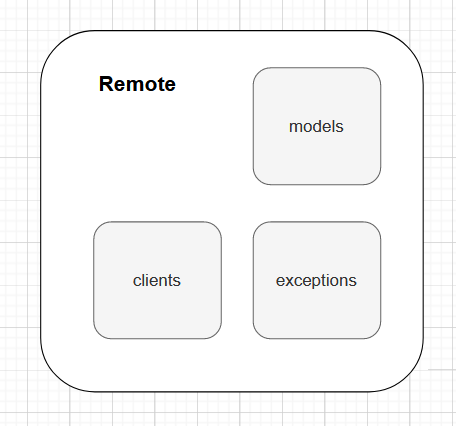
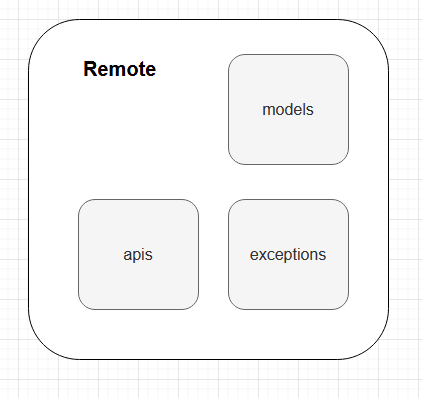
impl cache data source

diff --git a/lib/data/repositories/sample_repository.dart b/lib/data/repositories/sample_repository.dart
@@ -1,4 +1,6 @@
-import 'package:base_flutter/data/dataproviders/network/clients/sample_api_client.dart';
+import 'package:base_flutter/data/dataproviders/cache/models/sample_entity.dart';
+import 'package:base_flutter/data/dataproviders/cache/storage/sample_cache.dart';
+import 'package:base_flutter/data/dataproviders/network/apis/sample_api_client.dart';
 import 'package:base_flutter/data/dataproviders/network/exceptions/default_exception_handler.dart';
 import 'package:base_flutter/data/dataproviders/network/exceptions/exception_handler.dart';
 import 'package:base_flutter/data/dataproviders/network/models/sample_dto.dart';
@@ -8,11 +10,14 @@ import 'package:base_flutter/utils/result.dart';
 class SampleRepository {
   SampleRepository({
     SampleApiClient? sampleApiClient,
+    SampleCache? sampleCache,
     ExceptionHandler? exceptionHandler,
   })  : _sampleApiClient = sampleApiClient ?? SampleApiClient(),
+        _sampleCache = sampleCache ?? SampleCache(),
         _exceptionHandler = exceptionHandler ?? DefaultExceptionHandler();
 
   final SampleApiClient _sampleApiClient;
+  final SampleCache _sampleCache;
   final ExceptionHandler _exceptionHandler;
 
   Future<Result<List<SampleModel>>> fetch() async {
@@ -21,4 +26,25 @@ class SampleRepository {
       _exceptionHandler,
     );
   }
+
+  Future<Result<List<SampleModel>>> fetchWithCache() async {
+    return Result.guardFuture(
+          () async {
+            var cached = await _sampleCache.getSamples();
+            // return cached
+            if (cached.isNotEmpty) {
+              return cached.mapToModel();
+            }
+            // if not cached yet, fetch new data
+            var response = await _sampleApiClient.fetchCompute();
+            var models = response.mapToModel();
+            // save cache
+            await _sampleCache.saveSamples(models.mapToEntity());
+            // return result
+            return models;
+          },
+      _exceptionHandler,
+    );
+  }
+
 }

diff --git a/lib/utils/json_ext.dart b/lib/utils/json_ext.dart
@@ -1,34 +1,47 @@
 import 'dart:convert';
+import 'dart:developer';
 
 import 'package:flutter/foundation.dart';
 
 class JsonExtensions {
+  JsonExtensions._();
+
   /// parse json object
   /// not tested yet.
-  static T parseObject<T>(JsonParser parser) {
-    final parsed = jsonDecode(parser.responseBody);
-    return parser.fromJson(parsed);
+  static T? toObject<T>(JsonParser parser) {
+    try {
+      final parsed = jsonDecode(parser.raw);
+      return parser.fromJson(parsed);
+    } on Exception catch (e) {
+      log(e.toString());
+      return null;
+    }
   }
 
   /// parse json array
-  static List<T> parseObjects<T>(JsonParser<T> parser) {
-    final parsed = jsonDecode(parser.responseBody).cast<Map<String, dynamic>>();
-    return parsed.map<T>((json) => parser.fromJson(json)).toList();
+  static List<T> toObjects<T>(JsonParser<T> parser) {
+    try {
+      final parsed = jsonDecode(parser.raw).cast<Map<String, dynamic>>();
+      return parsed.map<T>((json) => parser.fromJson(json)).toList();
+    } on Exception catch (e) {
+      log(e.toString());
+      return List.empty();
+    }
   }
 
   /// parse json array in background
   /// https://docs.flutter.dev/cookbook/networking/background-parsing
-  static Future<List<T>> parseObjectsCompute<T>(JsonParser<T> parser) {
-    return compute(JsonExtensions.parseObjects<T>, parser);
+  static Future<List<T>> toObjectsCompute<T>(JsonParser<T> parser) {
+    return compute(JsonExtensions.toObjects<T>, parser);
   }
 }
 
 class JsonParser<T> {
   /// raw json
-  String responseBody;
+  String raw;
 
   /// function convert json -> T
   T Function(Map<String, dynamic> json) fromJson;
 
-  JsonParser({required this.responseBody, required this.fromJson});
+  JsonParser({required this.raw, required this.fromJson});
 }

diff --git a/lib/data/dataproviders/cache/models/sample_entity.dart b/lib/data/dataproviders/cache/models/sample_entity.dart
@@ -1,0 +1,50 @@
+import 'package:base_flutter/data/models/sample_model.dart';
+import 'package:base_flutter/utils/string_ext.dart';
+import 'package:equatable/equatable.dart';
+import 'package:json_annotation/json_annotation.dart';
+
+part 'sample_entity.g.dart';
+
+@JsonSerializable()
+class SampleEntity extends Equatable {
+  @JsonKey(name: 'id')
+  final int? id;
+  @JsonKey(name: 'albumId')
+  final int? albumId;
+  @JsonKey(name: 'title')
+  final String? title;
+  @JsonKey(name: 'url')
+  final String? url;
+  @JsonKey(name: 'thumbnailUrl')
+  final String? thumbnailUrl;
+
+  const SampleEntity(
+      {this.id, this.albumId, this.title, this.url, this.thumbnailUrl});
+
+  factory SampleEntity.fromJson(Map<String, dynamic> json) =>
+      _$SampleEntityFromJson(json);
+
+  Map<String, dynamic> toJson() => _$SampleEntityToJson(this);
+
+  @override
+  List<Object?> get props => [id, albumId, title, url, thumbnailUrl];
+}
+
+extension _Mapper on SampleEntity {
+  SampleModel? mapToModel() {
+    if (id == null || albumId == null) return null;
+    return SampleModel(
+      id: id!,
+      albumId: albumId!,
+      title: title.orEmpty(),
+      url: url.orEmpty(),
+      thumbnailUrl: thumbnailUrl.orEmpty(),
+    );
+  }
+}
+
+extension ListMapper on List<SampleEntity> {
+  List<SampleModel> mapToModel() {
+    return map((e) => e.mapToModel()).whereType<SampleModel>().toList();
+  }
+}

diff --git a/lib/data/dataproviders/network/apis/sample_api_client.dart b/lib/data/dataproviders/network/apis/sample_api_client.dart
@@ -12,9 +12,9 @@ class SampleApiClient {
   /// should use only if large json, because compute() cost too
   Future<List<SampleDto>> fetchCompute() async {
     final Response<String> response = await _dio.request("/photos");
-    return JsonExtensions.parseObjectsCompute<SampleDto>(
+    return JsonExtensions.toObjectsCompute<SampleDto>(
       JsonParser(
-        responseBody: response.data.toString(),
+        raw: response.data.toString(),
         fromJson: (json) => SampleDto.fromJson(json),
       ),
     );
@@ -22,9 +22,9 @@ class SampleApiClient {
 
   Future<List<SampleDto>> fetch() async {
     final Response<String> response = await _dio.request("/photos");
-    return JsonExtensions.parseObjects<SampleDto>(
+    return JsonExtensions.toObjects<SampleDto>(
       JsonParser(
-        responseBody: response.data.toString(),
+        raw: response.data.toString(),
         fromJson: (json) => SampleDto.fromJson(json),
       ),
     );

diff --git a/lib/data/dataproviders/cache/storage/sample_cache.dart b/lib/data/dataproviders/cache/storage/sample_cache.dart
@@ -1,0 +1,25 @@
+import 'dart:convert';
+
+import 'package:base_flutter/data/dataproviders/cache/models/sample_entity.dart';
+import 'package:base_flutter/utils/json_ext.dart';
+import 'package:base_flutter/utils/string_ext.dart';
+import 'package:shared_preferences/shared_preferences.dart';
+
+class SampleCache {
+  Future<bool> saveSamples(List<SampleEntity> samples) async {
+    SharedPreferences prefs = await SharedPreferences.getInstance();
+    return await prefs.setString(_samplesKey, jsonEncode(samples));
+  }
+
+  Future<List<SampleEntity>> getSamples() async {
+    SharedPreferences prefs = await SharedPreferences.getInstance();
+    return JsonExtensions.toObjects(
+      JsonParser(
+        raw: prefs.getString(_samplesKey).orEmpty(),
+        fromJson: (json) => SampleEntity.fromJson(json),
+      ),
+    );
+  }
+
+  static const String _samplesKey = "samplesKey";
+}

diff --git a/lib/data/dataproviders/cache/models/sample_entity.g.dart b/lib/data/dataproviders/cache/models/sample_entity.g.dart
@@ -1,0 +1,24 @@
+// GENERATED CODE - DO NOT MODIFY BY HAND
+
+part of 'sample_entity.dart';
+
+// **************************************************************************
+// JsonSerializableGenerator
+// **************************************************************************
+
+SampleEntity _$SampleEntityFromJson(Map<String, dynamic> json) => SampleEntity(
+      id: json['id'] as int?,
+      albumId: json['albumId'] as int?,
+      title: json['title'] as String?,
+      url: json['url'] as String?,
+      thumbnailUrl: json['thumbnailUrl'] as String?,
+    );
+
+Map<String, dynamic> _$SampleEntityToJson(SampleEntity instance) =>
+    <String, dynamic>{
+      'id': instance.id,
+      'albumId': instance.albumId,
+      'title': instance.title,
+      'url': instance.url,
+      'thumbnailUrl': instance.thumbnailUrl,
+    };

diff --git a/lib/data/models/sample_model.dart b/lib/data/models/sample_model.dart
@@ -1,3 +1,4 @@
+import 'package:base_flutter/data/dataproviders/cache/models/sample_entity.dart';
 import 'package:equatable/equatable.dart';
 
 class SampleModel extends Equatable {
@@ -17,4 +18,22 @@ class SampleModel extends Equatable {
 
   @override
   List<Object?> get props => [id, albumId, title, url, thumbnailUrl];
+}
+
+extension _Mapper on SampleModel {
+  SampleEntity? mapToEntity() {
+    return SampleEntity(
+      id: id,
+      albumId: albumId,
+      title: title,
+      url: url,
+      thumbnailUrl: thumbnailUrl,
+    );
+  }
+}
+
+extension ListMapper on List<SampleModel> {
+  List<SampleEntity> mapToEntity() {
+    return map((e) => e.mapToEntity()).whereType<SampleEntity>().toList();
+  }
 }

diff --git a/lib/presentation/sample/logic/sample_bloc.dart b/lib/presentation/sample/logic/sample_bloc.dart
@@ -21,7 +21,7 @@ class SampleBloc extends Bloc<SampleEvent, SampleState> {
   ) async {
     emit(const SampleState(status: SampleStatus.loading));
 
-    var result = await _sampleRepository.fetch();
+    var result = await _sampleRepository.fetchWithCache();
     if (result.isSuccess) {
       emit(
         SampleState(

diff --git a/lib/presentation/sample/widgets/sample_empty.dart b/lib/presentation/sample/widgets/sample_empty.dart
@@ -21,7 +21,7 @@ class SampleEmpty extends StatelessWidget {
                 MaterialStateProperty.all<Color>(Colors.blueAccent),
           ),
           onPressed: () {
-            onRefresh;
+            onRefresh();
           },
           child: const Text('Refresh data'),
         ),

diff --git a/README.md b/README.md
@@ -45,15 +45,15 @@ So above is the concept of this architecture. But how is it actually implemented
 ### (Data Layer) Data Provider
 #### Remote
 ![remote-package](docs/images/remote-package.png)
-- Models: Dto models
-- Exceptions: handle all exceptions from server. Example when server response with a incorrect status, such as 404, 503...
-- Clients: call api here, using [Dio](https://pub.dev/packages/dio) for making network request
+- models: Dto models
+- exceptions: handle all exceptions from server. Example when server response with a incorrect status, such as 404, 503...
+- apis: call api here, using [Dio](https://pub.dev/packages/dio) for making network request
 ```dart
 Future<List<SampleDto>> fetchCompute() async {
     final Response<String> response = await _dio.request("/photos");
-    return JsonExtensions.parseObjectsCompute<SampleDto>(
+    return JsonExtensions.toObjectsCompute<SampleDto>(
       JsonParser(
-        responseBody: response.data.toString(),
+        raw: response.data.toString(),
         fromJson: (json) => SampleDto.fromJson(json),
       ),
     );
@@ -61,7 +61,27 @@ Future<List<SampleDto>> fetchCompute() async {
 ```
 The ```JsonExtensions``` is a utility class help convert json to corresponding model in background or not.
 
-#### Cache [Work in progress 🚧]
+#### Cache
+- models: entity models
+- storage: get cache data here. Currently I'm prefer using SharedPreferences, because web platform doesn't support sqlite.
+```dart
+/// save data in json format
+  Future<bool> saveSamples(List<SampleEntity> samples) async {
+    SharedPreferences prefs = await SharedPreferences.getInstance();
+    return await prefs.setString(_samplesKey, jsonEncode(samples));
+  }
+  
+  /// get data from cache
+  Future<List<SampleEntity>> getSamples() async {
+    SharedPreferences prefs = await SharedPreferences.getInstance();
+    return JsonExtensions.toObjects(
+      JsonParser(
+        raw: prefs.getString(_samplesKey).orEmpty(),
+        fromJson: (json) => SampleEntity.fromJson(json),
+      ),
+    );
+  }
+```
 
 ### (Data Layer) Repository
 Get the data from cache or remote then map to domain model
@@ -73,7 +93,7 @@ Future<Result<List<SampleModel>>> fetch() async {
     );
   }
 ```
-The ```Result.guardFuture()``` simply wraps ```Future``` with try catch. Also we have ```Result.guard()``` does the samething but not ```Future```. See more in ```result.dart``` class
+The ```Result.guardFuture()``` simply wraps ```Future``` with try catch. Also we have ```Result.guard()``` does the same thing but not ```Future```. See more in ```result.dart``` class
 <br>The ```mapToModel``` is an extension, put in the Dto model
 ```dart
 extension _Mapper on SampleDto {
@@ -158,7 +178,7 @@ run build runner for generating needed classes
 - [x] Handle exceptions from API
 - [x] [Mobile] Json decode in background
 - [ ] [Web] Json decode in background
-- [ ] Implement cache data provider
+- [x] Implement cache data provider
 - [x] Design system: snackbar
 - [ ] Design system: typography
 - [ ] Design system: colors, theme
